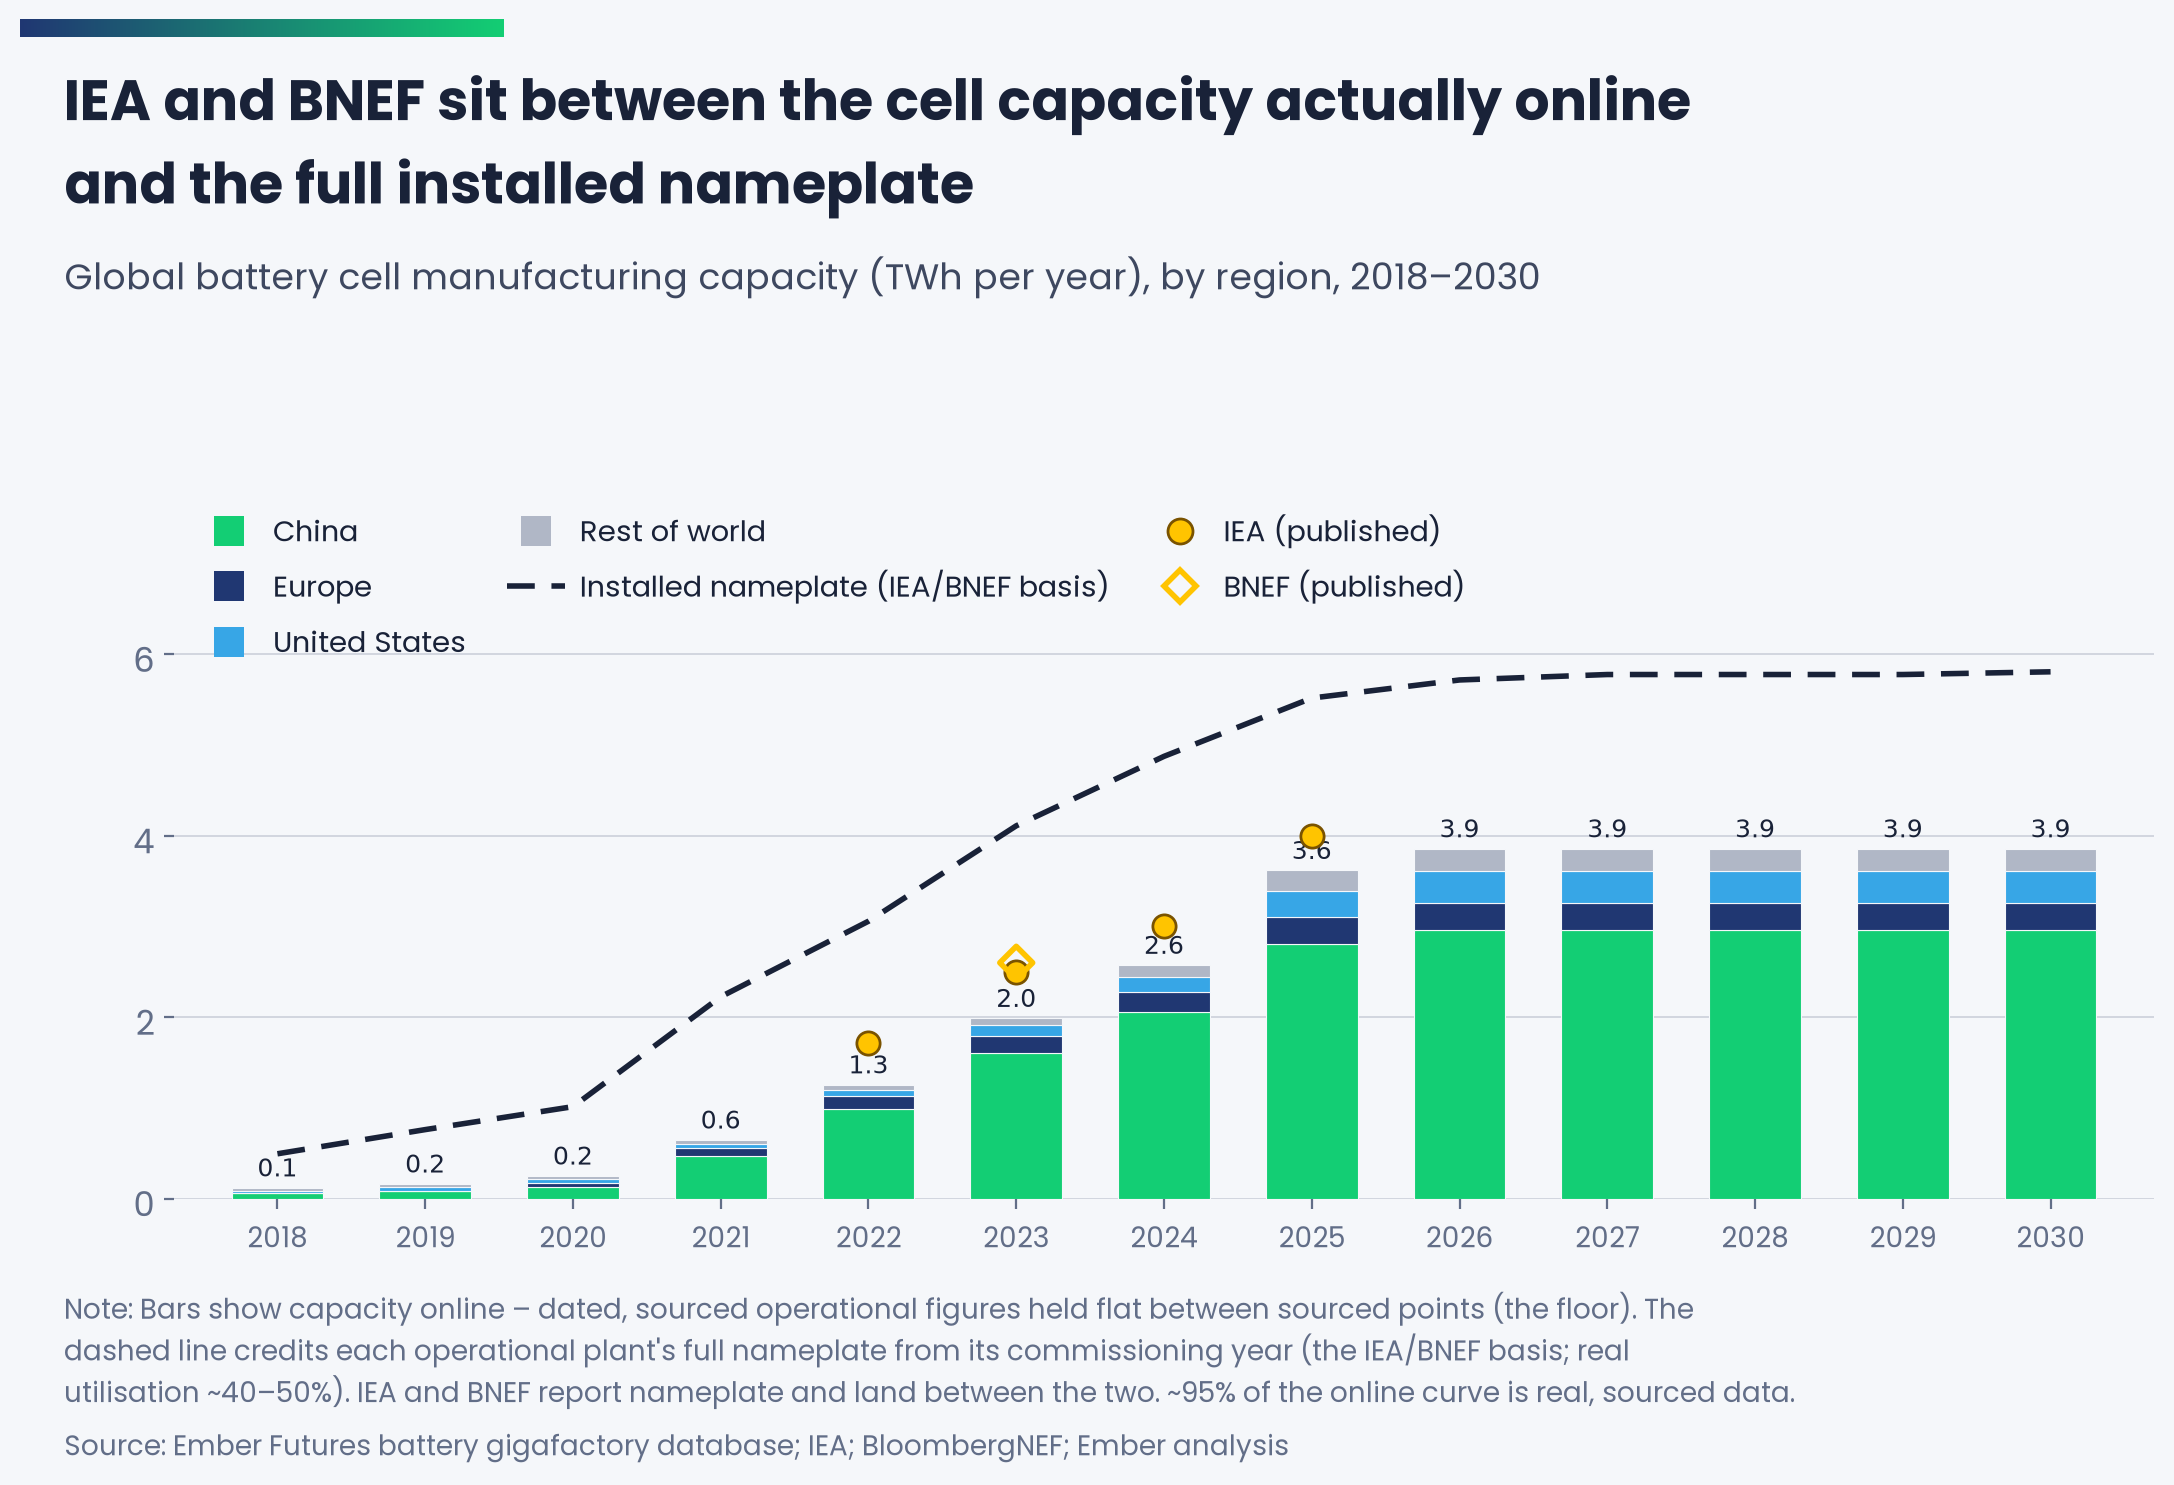
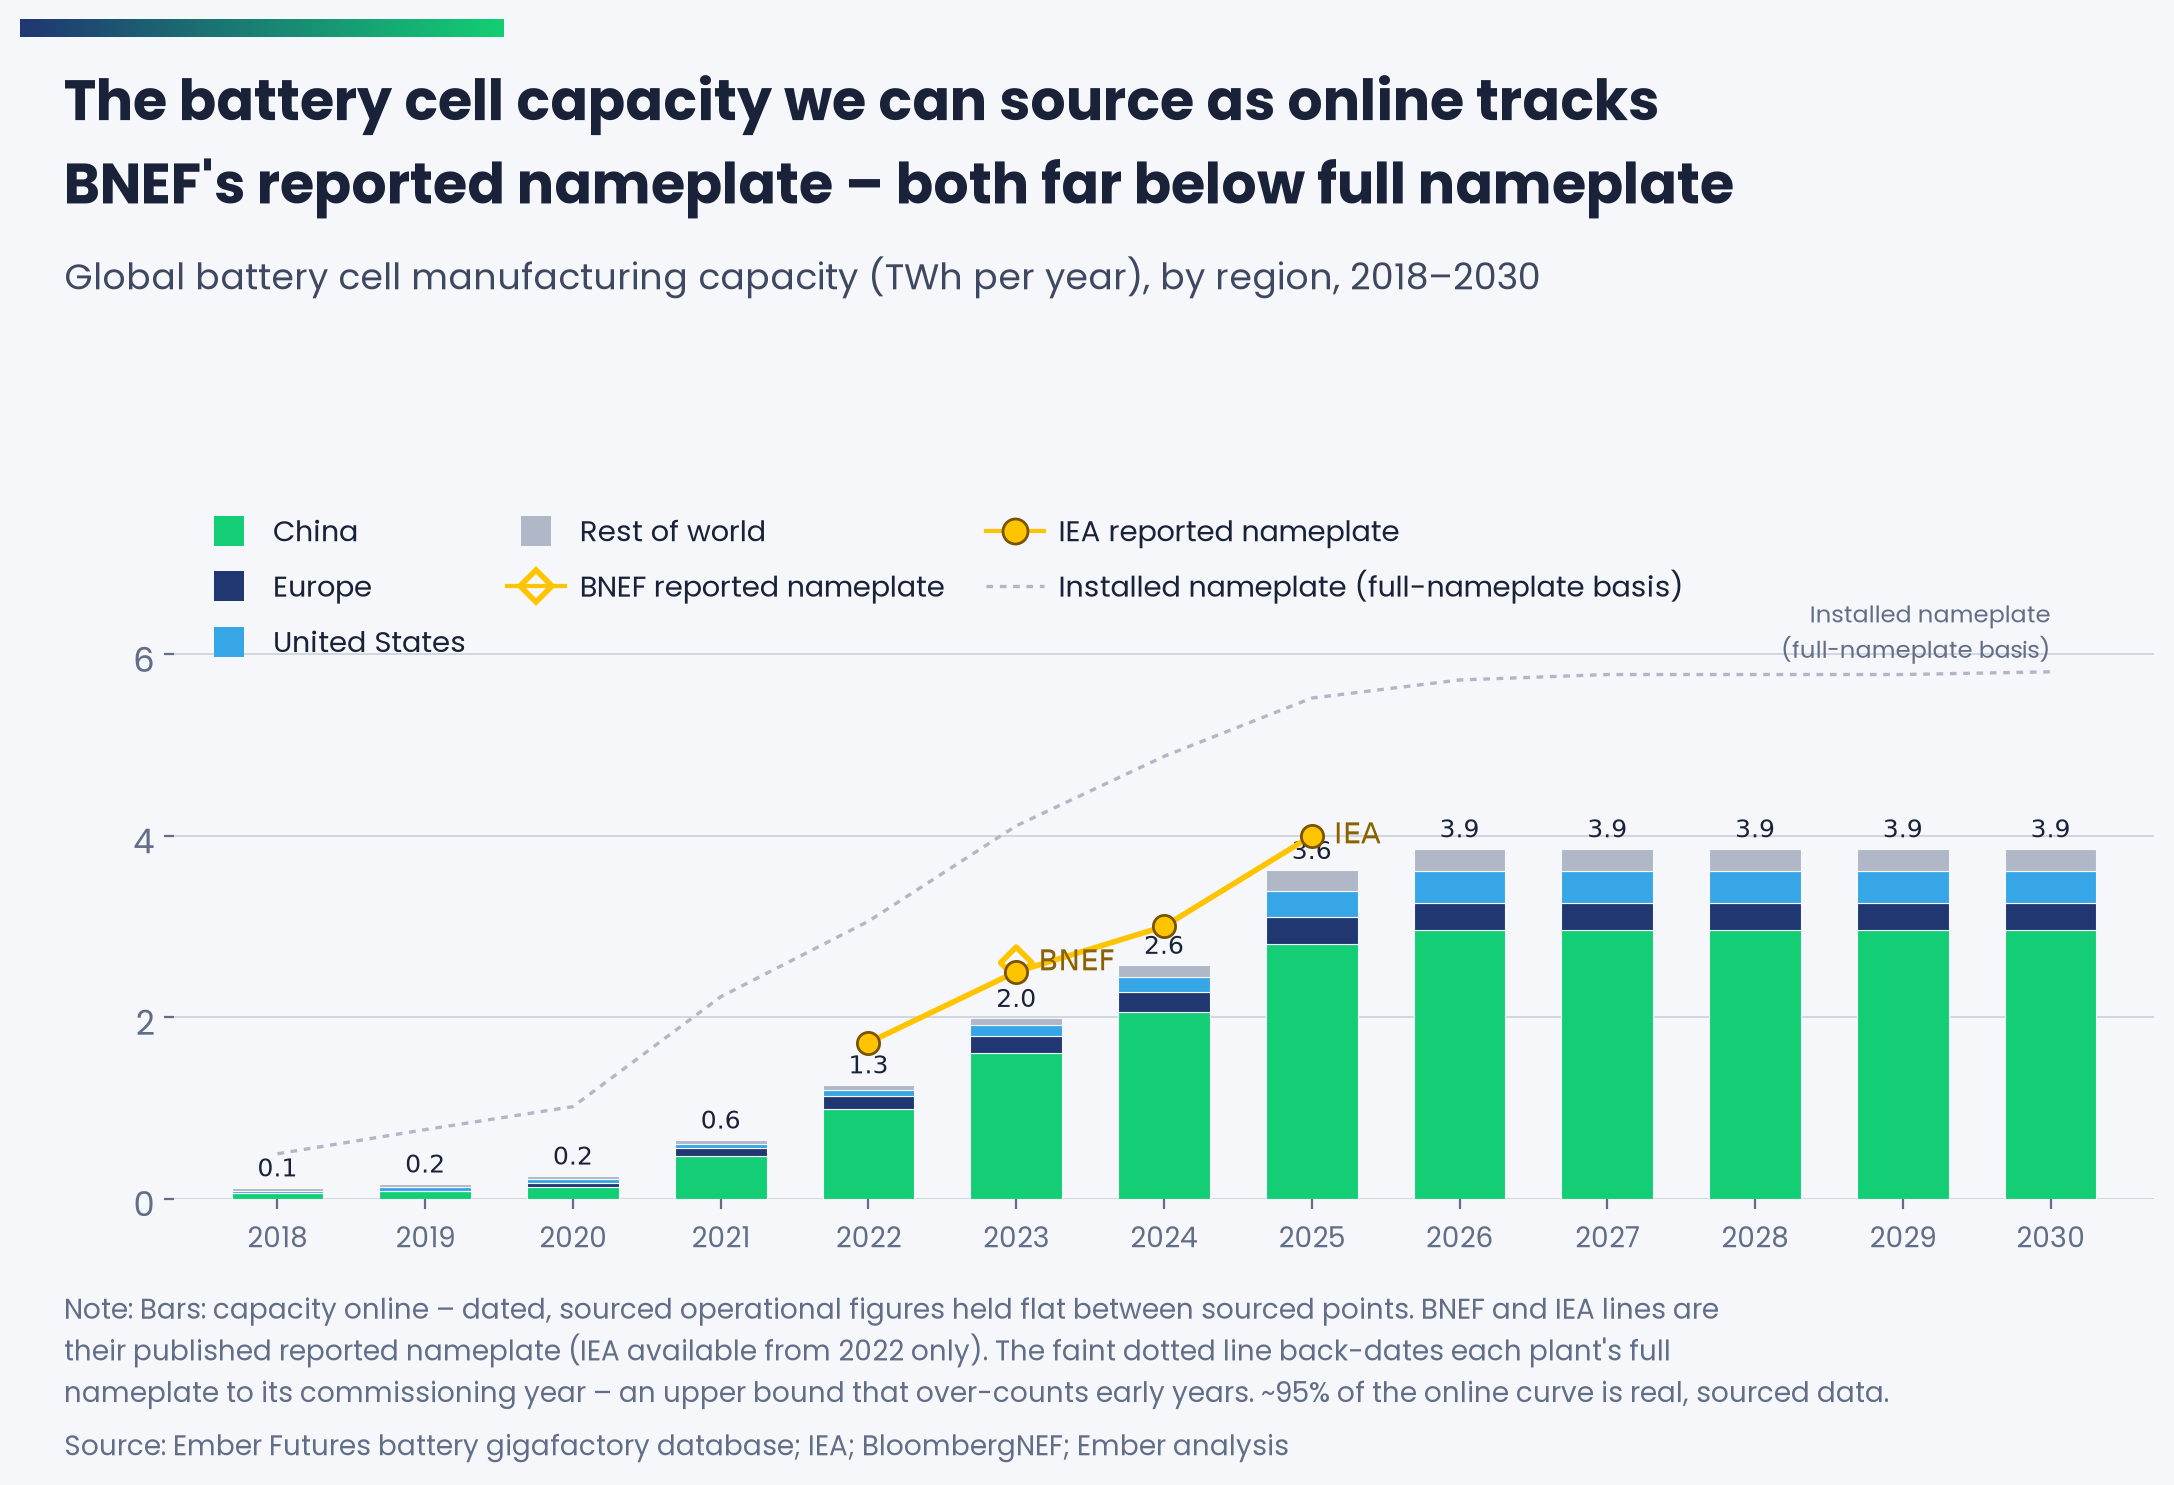
Chart: demote Series B to faint reference, lead with achieved-vs-BNEF comparison
Reframes the reconciliation chart ahead of extending the benchmark comparison
back to 2018. Series B (installed nameplate, full-nameplate basis) becomes a
faint dotted background line rather than the headline, since BNEF's actual
reported nameplate tracks the achieved-online bars, not the back-dated
full-nameplate line. BNEF and IEA are now drawn as connected, directly-labelled
amber lines across their sourced years. Benchmark rows for 2018-2022 to follow
once primary sources are confirmed.

Claude-Session: https://claude.ai/code/session_01MvbSsJ11tr9oaBjG1KsjAv

diff --git a/scripts/make_chart_png.py b/scripts/make_chart_png.py
@@ -96,21 +96,37 @@ def main():
         ax.text(x[i], v + 0.06, f"{v:.1f}", ha="center", va="bottom",
                 fontsize=9, family=BOLD_FAMILY, color=UI["title"], zorder=6)
 
-    # Series B — installed nameplate (IEA/BNEF basis): dashed line
+    # Series B — installed nameplate (IEA/BNEF basis): DEMOTED to a faint
+    # background reference. The 2018 comparison shows BNEF's real reported
+    # nameplate tracks the achieved bars, not this back-dated full-nameplate line.
     bvals = np.array([B[y] / 1000.0 for y in YEARS])
-    ax.plot(x, bvals, color=UI["title"], linewidth=2, linestyle=(0, (5, 3)),
-            zorder=4)
+    ax.plot(x, bvals, color=UI["gridline"], linewidth=1.2, linestyle=(0, (2, 2)),
+            zorder=2)
+    ax.text(x[-1], bvals[-1] + 0.05, "Installed nameplate\n(full-nameplate basis)",
+            ha="right", va="bottom", fontsize=8.5, color=UI["axis_label"], zorder=6)
 
-    # IEA / BNEF published benchmarks — gold markers
+    # IEA / BNEF published benchmarks — the lead comparison. Both amber, drawn as
+    # connected lines across their sourced years and distinguished by marker +
+    # direct label (never colour alone).
     gold = COLOR["highlight_yellow"]
-    for yr, g in bench["IEA"].items():
-        if yr in YEARS:
-            ax.scatter([YEARS.index(yr)], [g], s=70, color=gold, edgecolor="#7a5300",
-                       linewidth=1, zorder=7)
-    for yr, g in bench["BNEF"].items():
-        if yr in YEARS:
-            ax.scatter([YEARS.index(yr)], [g], s=70, marker="D", facecolor="none",
-                       edgecolor=gold, linewidth=2, zorder=7)
+
+    def bench_line(series, marker, filled, label):
+        pts = sorted((YEARS.index(y), g) for y, g in series.items() if y in YEARS)
+        if not pts:
+            return
+        xs = [p[0] for p in pts]
+        ys = [p[1] for p in pts]
+        if len(pts) > 1:
+            ax.plot(xs, ys, color=gold, linewidth=2, zorder=7)
+        ax.scatter(xs, ys, s=64, marker=marker, zorder=8,
+                   facecolor=(gold if filled else "none"),
+                   edgecolor=("#7a5300" if filled else gold),
+                   linewidth=(1 if filled else 2))
+        ax.text(xs[-1] + 0.15, ys[-1], label, ha="left", va="center",
+                fontsize=10.5, color="#8a6300", family=BOLD_FAMILY, zorder=8)
+
+    bench_line(bench["BNEF"], "D", False, "BNEF")
+    bench_line(bench["IEA"], "o", True, "IEA")
 
     ax.set_xticks(x)
     ax.set_xticklabels([str(y) for y in YEARS], rotation=0, fontsize=10)
@@ -125,12 +141,13 @@ def main():
                for lab, (_n, _l, c) in zip(
                    ["China", "Europe", "United States", "Rest of world"], GROUPS)]
     handles += [
-        Line2D([0], [0], color=UI["title"], linewidth=2, linestyle=(0, (5, 3)),
-               label="Installed nameplate (IEA/BNEF basis)"),
-        Line2D([0], [0], marker="o", linestyle="", markersize=9, markerfacecolor=gold,
-               markeredgecolor="#7a5300", label="IEA (published)"),
-        Line2D([0], [0], marker="D", linestyle="", markersize=8, markerfacecolor="none",
-               markeredgecolor=gold, markeredgewidth=2, label="BNEF (published)"),
+        Line2D([0], [0], marker="D", linestyle="-", color=gold, markersize=8,
+               markerfacecolor="none", markeredgecolor=gold, markeredgewidth=2,
+               label="BNEF reported nameplate"),
+        Line2D([0], [0], marker="o", linestyle="-", color=gold, markersize=9,
+               markerfacecolor=gold, markeredgecolor="#7a5300", label="IEA reported nameplate"),
+        Line2D([0], [0], color=UI["gridline"], linewidth=1.2, linestyle=(0, (2, 2)),
+               label="Installed nameplate (full-nameplate basis)"),
     ]
     leg = ax.legend(handles=handles, loc="upper left", bbox_to_anchor=(0.0, 1.27),
                     ncol=3, frameon=False, handletextpad=0.5, columnspacing=1.4,
@@ -139,14 +156,14 @@ def main():
         t.set_color(UI["title"])
 
     add_header(fig,
-               "IEA and BNEF sit between the cell capacity actually online\nand the full installed nameplate",
+               "The battery cell capacity we can source as online tracks\nBNEF's reported nameplate – both far below full nameplate",
                "Global battery cell manufacturing capacity (TWh per year), by region, 2018–2030",
                title_y=0.97, subtitle_y=0.84)
     add_footer(fig,
                source="Ember Futures battery gigafactory database; IEA; BloombergNEF; Ember analysis",
-               note="Bars show capacity online – dated, sourced operational figures held flat between sourced points (the floor). The\n"
-                    "dashed line credits each operational plant's full nameplate from its commissioning year (the IEA/BNEF basis; real\n"
-                    "utilisation ~40–50%). IEA and BNEF report nameplate and land between the two. ~95% of the online curve is real, sourced data.")
+               note="Bars: capacity online – dated, sourced operational figures held flat between sourced points. BNEF and IEA lines are\n"
+                    "their published reported nameplate (IEA available from 2022 only). The faint dotted line back-dates each plant's full\n"
+                    "nameplate to its commissioning year – an upper bound that over-counts early years. ~95% of the online curve is real, sourced data.")
 
     fig.savefig(OUT, dpi=200, facecolor=UI["background"], bbox_inches="tight")
     print(f"wrote {OUT}")
